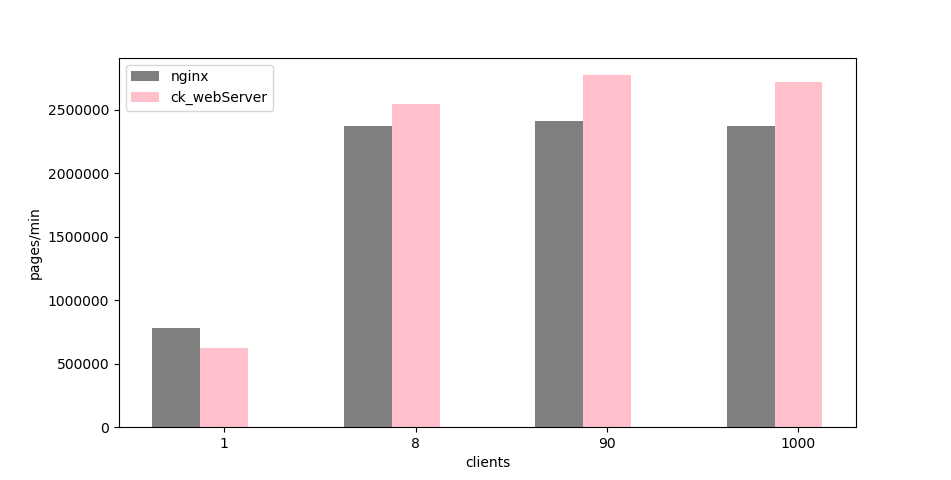
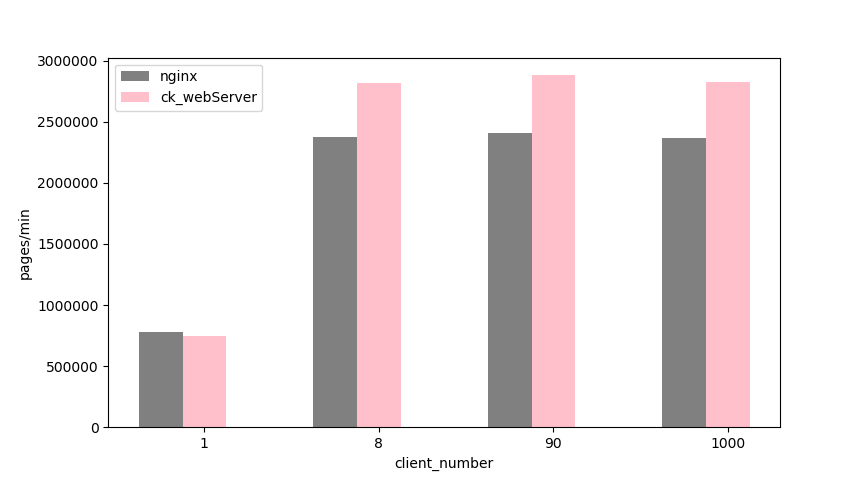
完成

diff --git a/src/Process.cpp b/src/Process.cpp
@@ -414,12 +414,21 @@ int process :: messageSend(const string& tmp, channel* chl) {
         paths = DEFAULT_PATH ;
         string type = getFileType() ;
         responseHead(chl, type, len, 200, "OK") ;
-        //将文件信息全部写入读缓冲区
-        readFile(DEFAULT_PATH, chl) ;
-        //设置发送文件的对象!
-        s = sss.sendInfo(chl) ;
-        if(ret <= 0) {
+        ret = sendHeader(chl) ;
+        if(ret < 0) {
+            cout << __LINE__ << "  "  << __FILE__ << endl ;
             canDel = 1 ;
+            return 1 ;
+        }
+        ret = sendfiles(chl, DEFAULT_PATH) ;
+        if(ret == 1 || ret < 0) {
+            sendFile::over(chl) ;
+            canDel = 1 ;
+            return 1 ;
+        }
+        else {
+            //设置可写事件
+            sendFile::setWrite(chl) ;
         }
         return 1 ;
     }
@@ -444,6 +453,64 @@ int process :: messageSend(const string& tmp, channel* chl) {
     flag = 0 ;
     return 1 ;
 }
+
+int process::sendHeader(channel* chl) {
+    char buf[BUFSIZ] ;
+    bzero(buf, sizeof(buf)) ;
+    int cliFd = chl->getFd() ;
+    Buffer* bf = chl->getWriteBuffer() ;
+    int len = bf->getSize() ;
+    int index = 0 ;
+    for(int i=0; i<len; i++) {
+        buf[index] = (*bf)[i] ;
+        index++ ;
+    }
+    buf[index] = '\0' ;
+    int ret = writen(cliFd, buf, sizeof(buf)) ;
+    return ret ;
+}
+
+int process :: sendfiles(channel* chl, string path) {
+    int cliFd = chl->getFd() ;
+    char buf[BUFSIZ] ;
+    bzero(buf, sizeof(buf)) ;
+    int fd = open(path.c_str(), O_RDONLY) ;
+    if(fd < 0) {
+        cout << __FILE__ << "   " << __LINE__ << endl ;
+        return -1 ;
+    }
+    struct stat st ;
+    int ret = fstat(fd, &st) ;
+    if(ret < 0) {
+        cout << __FILE__ << "   " << __LINE__ << endl ;
+        return -1 ;
+    }
+    off_t offset = 0 ;
+    ret = sendfile(fd, cliFd, &offset, st.st_size) ;
+    if(ret < 0) {
+        cout << __FILE__ << "   " << __LINE__ << endl ;
+        return -1 ;
+    }
+    int size = st.st_size-ret ;
+    if(size != 0) {
+        lseek(fd, 0, ret) ;
+        while(1) {
+            int ret = read(fd, buf, sizeof(buf)) ;
+            if(ret < 0) {
+                cout << __FILE__ <<"   " << __LINE__ << endl ;
+                return -1 ;
+            }
+            if(ret < 0) break ;
+            for(int i=0; i<ret; i++) {
+                chl->getWriteBuffer()->bufferClear() ;
+                chl->getWriteBuffer()->append(buf[i]) ;
+            }
+        }
+    }   
+    close(fd) ;
+    return size==0?0:(st.st_size-ret) ;
+}
+
 
 void process :: readFile(channel* chl) {
     string type = getFileType() ; 
@@ -524,7 +591,7 @@ void process :: sendNotFind(channel* chl) {
     readFile("404.html", chl) ;
 }
 
-
+/*
 void process :: readFile(const char* file, channel* chl) {
     int fd = open(file, O_RDONLY)  ;
     if(fd < 0) {
@@ -555,8 +622,7 @@ void process :: readFile(const char* file, channel* chl) {
     chl->setLen(sum+1) ;
     close(fd) ;
 }
-/*
-
+*/
 //读文件
 void process :: readFile(const char* file, channel* chl) {
     int fd = open(file, O_RDONLY)  ;
@@ -584,7 +650,7 @@ void process :: readFile(const char* file, channel* chl) {
     munmap(bufp, stat.st_size) ;
     close(fd) ;
 }
-*/
+
 //资源是否存在
 int process :: isExist() {
     if(access(paths.c_str(), F_OK) != -1) {

diff --git a/paint/paint.py b/paint/paint.py
@@ -7,12 +7,12 @@ import matplotlib.pyplot as plt
 name_list = ['1','8','90','1000']
 name_list1 = ['1','8','90','1000']
 num_list = [779200,2376466,2411873,2370371]
-num_list1 = [627662,2544144,2773392,2720969]
+num_list1 = [744204,2816412,2880995,2827004]
 x =list(range(len(num_list)))
 total_width, n = 0.5, 2
 width = total_width / n
 plt.ylabel('pages/min')
-plt.xlabel('clients') 
+plt.xlabel('client_number') 
 plt.bar(x, num_list, width=width,  label='nginx',tick_label=name_list, fc='gray')
 for i in range(len(x)):
     x[i] = x[i] + width

diff --git a/src/SendFile.h b/src/SendFile.h
@@ -14,7 +14,7 @@ public:
     int sendInfo(channel* chl) ;
     int newBuffer(Buffer* bf, long pos, string& s) ;
     void setBuf(Buffer* bf, const string& s) ;
-    void setWrite(channel* chl) ;
-    void over(channel* chl) ;
+    static void setWrite(channel* chl) ;
+    static void over(channel* chl) ;
 };
 

diff --git a/src/Process.h b/src/Process.h
@@ -71,6 +71,8 @@ public :
     string processCgi() ;
     void getSendBuffer(channel* chl, const string res) ;
     void sendBuffer(channel* chl) ;
+    int sendHeader(channel* chl) ;
+    int sendfiles(channel* chl, string path) ;
 private :
     string post ;
     string paths ;

diff --git a/README.md b/README.md
@@ -62,7 +62,7 @@ webbench -c [客户端数量] -t [运行时间] http://[IP]:[PORT]/
 给出下面测试数据，并将平均值获取到，绘制成条形图进行对比
 
 
-![jj](image/CK_webServer.png)
+![jj](image/ck.png)
 
 
 性能对比：
